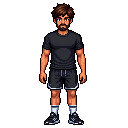
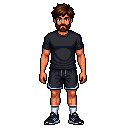
Daily 2.7: fecha de las intenciones, fondos de Scaeli+, barba corta rehecha
Claude-Session: https://claude.ai/code/session_018K2oLYSpPtdcPdEUVYj7Hk

Changed region(s): [[0.4062, 0.125, 0.5625, 0.2812]]

diff --git a/js/app.js b/js/app.js
@@ -23,7 +23,7 @@ import * as PJ from "./personaje.js";
 import { RETIROS } from "../data/retiros.js";   // 2.2: caminos largos de oración (Scaeli+)
 import { MUSICAS, musicaPlay, musicaStop, musicaEstado, musicaAlCambiar, campana, vozDisponible, decir, callar } from "./audio.js";
 
-export const VERSION="2.6";
+export const VERSION="2.7";
 const LOGO_GOOGLE='<svg class="logo-g" viewBox="0 0 48 48" aria-hidden="true"><path fill="#EA4335" d="M24 9.5c3.54 0 6.71 1.22 9.21 3.6l6.85-6.85C35.9 2.38 30.47 0 24 0 14.62 0 6.51 5.38 2.56 13.22l7.98 6.19C12.43 13.72 17.74 9.5 24 9.5z"/><path fill="#4285F4" d="M46.98 24.55c0-1.57-.15-3.09-.38-4.55H24v9.02h12.94c-.58 2.96-2.26 5.48-4.78 7.18l7.73 6c4.51-4.18 7.09-10.36 7.09-17.65z"/><path fill="#FBBC05" d="M10.53 28.59c-.48-1.45-.76-2.99-.76-4.59s.27-3.14.76-4.59l-7.98-6.19C.92 16.46 0 20.12 0 24c0 3.88.92 7.54 2.56 10.78l7.97-6.19z"/><path fill="#34A853" d="M24 48c6.48 0 11.93-2.13 15.89-5.81l-7.73-6c-2.15 1.45-4.92 2.3-8.16 2.3-6.26 0-11.57-4.22-13.47-9.91l-7.98 6.19C6.51 42.62 14.62 48 24 48z"/></svg>';
 const LOGO_APPLE='<svg class="logo-a" viewBox="0 0 814 1000" aria-hidden="true"><path fill="currentColor" d="M788.1 340.9c-5.8 4.5-108.2 62.2-108.2 190.5 0 148.4 130.3 200.9 134.2 202.2-.6 3.2-20.7 71.9-68.7 141.9-42.8 61.6-87.5 123.1-155.5 123.1s-85.5-39.5-164-39.5c-76.5 0-103.7 40.8-165.9 40.8s-105.6-57-155.5-127C46.7 790.7 0 663 0 541.8c0-194.4 126.4-297.5 250.8-297.5 66.1 0 121.2 43.4 162.7 43.4 39.5 0 101.1-46 176.3-46 28.5 0 130.9 2.6 198.3 99.2zm-234-181.5c31.1-36.9 53.1-88.1 53.1-139.3 0-7.1-.6-14.3-1.9-20.1-50.6 1.9-110.8 33.7-147.1 75.8-28.5 32.4-55.1 83.6-55.1 135.5 0 7.8 1.3 15.6 1.9 18.1 3.2.6 8.4 1.3 13.6 1.3 45.4 0 102.5-30.4 135.5-71.3z"/></svg>';
 /* la dirección publicada: la app de las tiendas lee de acá los Evangelios del día (los genera la GitHub Action cada noche) */
@@ -264,11 +264,15 @@ function nivelHTML(cls){ const N=nivelDe(), f=N.resto/N.falta, C=2*Math.PI*26;
 /* los fondos del personaje: ilustraciones de la app que se desbloquean con el nivel y los logros */
 const FONDOS=[["manana","Mañana",null],["mediodia","La parroquia",null],["tarde","Atardecer",null],["noche","Capilla de noche",null],
   ["horas","El claustro",["nivel",3,"Nivel 3"]],["luminosos","El Jordán",["logro","r7","7 días seguidos"]],["gloriosos","La Resurrección",["nivel",5,"Nivel 5"]],["gozosos","Belén",["logro","ros30","30 Rosarios"]],
-  ["evangelio","La Palabra",["logro","ev10","10 Evangelios"]],["dolorosos","El Huerto",["logro","nov1","Una novena completa"]],["santo","Los santos",["nivel",10,"Nivel 10"]],["misa","El altar",["logro","conf1","Una confesión"]],["oraciones","Manos en oración",["nivel",20,"Nivel 20"]]];
-function fondoLibre(F,N,L){ if(!F[2]) return true; const [t,v]=F[2]; return t==="nivel"?N.nivel>=v:!!(L.find(x=>x.k===v)||{}).ok; }
+  ["evangelio","La Palabra",["logro","ev10","10 Evangelios"]],["dolorosos","El Huerto",["logro","nov1","Una novena completa"]],["santo","Los santos",["nivel",10,"Nivel 10"]],["misa","El altar",["logro","conf1","Una confesión"]],["oraciones","Manos en oración",["nivel",20,"Nivel 20"]],
+  /* 2.7: fondos especiales de Scaeli+ (Gemini Pro; originales en herramientas/gemini/fondos_plus/) */
+  ["plus_catedral","La catedral",["plus",0,"Scaeli+"]],["plus_escalera","La escalera al cielo",["plus",0,"Scaeli+"]],["plus_galilea","Noche en Galilea",["plus",0,"Scaeli+"]],["plus_monte","La cruz del monte",["plus",0,"Scaeli+"]]];
+function fondoLibre(F,N,L){ if(!F[2]) return true; const [t,v]=F[2]; return t==="plus"?esPlus():t==="nivel"?N.nivel>=v:!!(L.find(x=>x.k===v)||{}).ok; }
 function fondoActual(){ const k=(profile||{}).fondo; const N=nivelDe(), L=logros(); const F=FONDOS.find(x=>x[0]===k); return F&&fondoLibre(F,N,L)?F[0]:null; }
 function fondosHTML(){ const N=nivelDe(), L=logros(), act=fondoActual()||"";
-  return '<div class="fondos">'+FONDOS.map(F=>{ const ok=fondoLibre(F,N,L); return '<button class="fondo'+(F[0]===act?" on":"")+(ok?"":" lock")+'" data-a="fondoSet" data-p="'+F[0]+'"'+(ok?'':' aria-disabled="true"')+'><img src="'+ilu(F[0])+'" alt="" loading="lazy">'+(ok?'':'<span class="lk">'+ic("lock")+'</span>')+'<b>'+esc(F[1])+'</b><small>'+(ok?(F[2]?"Desbloqueado":"De siempre"):esc(F[2][2]))+'</small></button>'; }).join("")+'</div>'; }
+  const uno=F=>{ const ok=fondoLibre(F,N,L), pl=F[2]&&F[2][0]==="plus"; return '<button class="fondo'+(F[0]===act?" on":"")+(ok?"":" lock")+(pl?" plus":"")+'" data-a="fondoSet" data-p="'+F[0]+'"'+(ok||pl?'':' aria-disabled="true"')+'><img src="'+ilu(F[0])+'" alt="" loading="lazy">'+(ok?'':'<span class="lk">'+ic("lock")+'</span>')+'<b>'+esc(F[1])+'</b><small>'+(pl?"Scaeli+":ok?(F[2]?"Desbloqueado":"De siempre"):esc(F[2][2]))+'</small></button>'; };
+  const esP=F=>F[2]&&F[2][0]==="plus";
+  return '<div class="fondos">'+FONDOS.filter(F=>!esP(F)).map(uno).join("")+'</div><div class="eyebrow fondos-sub">Especiales de Scaeli+</div><div class="fondos">'+FONDOS.filter(esP).map(uno).join("")+'</div>'; }
 /* los logros: se ganan una sola vez, se calculan de lo guardado */
 const LOGROS=[["ros1","Primer Rosario","Rezaste tu primer Rosario","rosary",D=>D.ros>=1],["ros30","30 Rosarios","Treinta coronas para María","rosary",D=>D.ros>=30],["ev10","10 Evangelios","Diez días con la Palabra","book",D=>D.ev>=10],["ev100","100 Evangelios","Cien días con la Palabra","book",D=>D.ev>=100],
   ["r7","7 días seguidos","Una semana con Dios sin cortar","candle",D=>D.rmax>=7],["r30","30 días seguidos","Un mes entero con Dios","candle",D=>D.rmax>=30],["r100","100 días seguidos","Cien velas encendidas","candle",D=>D.rmax>=100],
@@ -439,6 +443,10 @@ function calendarioHTML(){ const hoyS=hoy(); if(!calMes){ const d=new Date(); ca
   if(gcalErr) o+='<p class="hint" style="color:var(--over);margin-top:8px">'+esc(gcalErr)+'</p>';
   return o+'</div>'; }
 
+/* 2.7: de cuándo es una intención del grupo (campo «it» del miembro; las anteriores a 2.7 no lo tienen y no muestran nada) */
+function intCuando(t){ if(!t) return ""; const d=Math.max(0,Math.round((new Date(hoy()+"T12:00")-new Date(new Date(t).toDateString()))/864e5-.5));
+  const tx=d<=0?"de hoy":d===1?"de ayer":d<7?"hace "+d+" días":d<14?"hace una semana":d<60?"hace "+Math.floor(d/7)+" semanas":"hace "+Math.floor(d/30)+" meses";
+  return '<small class="gcu'+(d<=1?" nv":d>=14?" vj":"")+'">'+tx+'</small>'; }
 /* 2.2.4: el juego todavía no se publica; en lugar del enlace, una tarjeta «Muy pronto» con el logo del juego (sin enlace) */
 function juegoPronto(){ return '<div class="card juegop"><img src="assets/juego-scaeli.png" alt="Scaeli, el juego"><div class="n"><span class="eyebrow">El juego</span><b>Muy pronto en las plataformas</b><small>Scaeli, la aventura de la fe en pixel art. Lo que ganes acá va a aparecer en el juego.</small></div></div>'; }
 /* ── Yo: el personaje y su personalización básica (lo demás se gana jugando Scaeli) ── */
@@ -748,7 +756,7 @@ function shGrupo(){ const local=backend&&backend.mode==="local";
     /* 2.4: la fila de cada miembro, con aire: arriba quién es, abajo su intención y dos botones grandes; lo demás (reportar, bloquear, sacar) en «más» */
     const rg=rangoDe(esYo?rangoPts().pts:x.rg); return '<div class="grow'+(esYo?" yo":"")+'"><div class="gr1"><span class="rk rgk" title="'+rg.n+'">'+insignia(rg,32)+'</span>'+avatarHTML(x.av,40)+'<span class="n"><b>'+esc(x.n)+(esYo?' (vos)':'')+'</b><small class="rgn">'+rg.n+'</small></span>'+(x.mh&&x.mh.f===hoy()?'<em class="mhc'+(x.mh.n>=3?' ok':'')+'">'+x.mh.n+'/3 hoy</em>':'')+
       (esYo?'':'<button class="sm gmb" data-a="gMas" data-p="'+x.uid+'" aria-label="Más opciones" aria-expanded="'+(sheet.gmas===x.uid)+'">'+ic("more")+'</button>')+'</div>'+
-     (x.int&&!oculta?'<p class="gint">«'+esc(x.int)+'»</p>':x.int&&oculta?'<p class="gint muted">Intención ocultada</p>':'<p class="gint muted">'+(esYo?'Todavía no dejaste tu intención':'Sin intención todavía')+'</p>')+
+     (x.int&&!oculta?'<p class="gint">«'+esc(x.int)+'»'+intCuando(x.it)+'</p>':x.int&&oculta?'<p class="gint muted">Intención ocultada</p>':'<p class="gint muted">'+(esYo?'Todavía no dejaste tu intención':'Sin intención todavía')+'</p>')+
      (esYo?'':'<div class="acts">'+(x.int&&!oculta?'<button class="gb" data-a="gRece" data-p="'+x.uid+'" aria-pressed="'+!!rece+'">'+ic("rosary")+' '+(rece?"Rezaste ✓":"Recé por vos")+'</button>':'')+'<button class="gb" data-a="gAliento" data-p="'+x.uid+'" aria-pressed="'+(sheet.al===x.uid)+'">'+ic("heart")+' Mandar aliento</button></div>'+
       '<div class="gmas"'+(sheet.gmas===x.uid?'':' hidden')+'>'+(x.int&&!oculta?'<button data-a="gReportar" data-p="'+x.uid+'">'+ic("x")+' Reportar la intención</button>':'')+'<button data-a="gBloquear" data-p="'+x.uid+'">'+ic("lock")+' Bloquear</button>'+(creador?'<button data-a="gEchar" data-p="'+x.uid+'">'+ic("trash")+' Sacar del grupo</button>':'')+'</div>')+
      (sheet.al===x.uid?'<div class="chips gal">'+ALIENTOS.map((a,i)=>'<button data-a="gAlientoOk" data-p="'+x.uid+'|'+i+'">'+esc(a)+'</button>').join("")+'</div>':'')+'</div>'; };
@@ -765,7 +773,7 @@ function shGrupo(){ const local=backend&&backend.mode==="local";
    '<div class="card gdes"><div class="hd"><div class="eyebrow">Desafío de la semana</div><span class="chip">'+ic(E.D[3])+' '+E.D[2]+' c/u</span></div><b class="gt">'+esc(E.D[1])+' entre todos: '+E.tot+' de '+E.meta+'</b><div class="bar3"><i style="width:'+Math.min(100,Math.round(E.tot/E.meta*100))+'%"></i></div><p class="hint">'+(E.ok?'¡Meta cumplida! Todos se llevan la insignia del equipo.':'Si llegan antes del domingo, todos ganan la insignia del equipo. Lo tuyo: '+(((me.s||{})[lun]||{})[E.D[0]]||0)+'.')+'</p></div>'+
    misionesHTML(R,u)+actividadHTML())+pan("muro",muroHTML(u,creador))+
    pan("miembros",'<div class="card gtuya"><div class="hd"><div class="eyebrow">Tu intención de la semana</div>'+(recibidos?'<span class="hint" style="margin:0;color:var(--accent);display:inline-flex;align-items:center;gap:5px;white-space:nowrap">'+ic("heart")+' '+recibidos+' rezaron por vos</span>':'')+'</div>'+
-     '<form data-f="grupoInt" class="add"><input type="text" name="i" placeholder="Por qué pedís esta semana…" maxlength="80" value="'+esc(me.int||"")+'" autocomplete="off"><button class="iconbtn acc" type="submit" aria-label="Guardar">'+ic("check")+'</button></form><p class="hint" style="margin:8px 0 0">La ven los de tu grupo, para rezar por vos.</p></div>'+
+     '<form data-f="grupoInt" class="add"><input type="text" name="i" placeholder="Por qué pedís esta semana…" maxlength="80" value="'+esc(me.int||"")+'" autocomplete="off"><button class="iconbtn acc" type="submit" aria-label="Guardar">'+ic("check")+'</button></form><p class="hint" style="margin:8px 0 0">La ven los de tu grupo, para rezar por vos'+(me.int&&me.it?', con su fecha (la tuya es '+intCuando(me.it).replace(/<[^>]+>/g,"")+'). Guardala de nuevo para renovarla':'')+'.</p></div>'+
      '<div class="eyebrow gsub">Intenciones del grupo</div><div class="gmiem">'+R.slice().sort((a,b)=>(b.uid===u)-(a.uid===u)||String(a.n).localeCompare(String(b.n))).map(fila).join("")+'</div>')+
    pan("ranking",'<div class="card gencs"><div class="hd"><div class="eyebrow">Encuentros</div><button class="lnk" data-a="encNuevo">'+ic("plus")+' Proponer uno</button></div>'+
      (ENC.length?ENC.map(m=>encHTML(m,u,creador)).join(""):'<p class="hint" style="margin:4px 0 0">La Misa del domingo, la reunión del grupo, una salida: proponé la fecha y cada uno avisa si va.</p>')+'</div>'+
@@ -1339,7 +1347,7 @@ function confirmar(tit,txt,ok,no){ return new Promise(res=>{ const el=document.c
 function shPlusPaywall(desde){ const nat=esNativo(), P=sheet.planes, eq=delEquipo()||plusPrueba(), activo=esPlus();
   if(nat&&comprasDisponibles()&&!P&&!sheet.cargandoP){ sheet.cargandoP=1; comprasPlanes().then(x=>{ if(sheet){ sheet.planes=x||{}; renderSheet(); } }); }
   const precio=(p,def)=>p&&p.product&&p.product.priceString?p.product.priceString:def;
-  const ben=[["Caminos largos de oración","La Consagración a María en 33 días, los Ejercicios de San Ignacio en 30, un retiro de 7 días y San Marcos entero en 16. Y los del tiempo litúrgico: Adviento, Navidad, Cuaresma y Pascua."],["Rezar con audio","El Rosario guiado con voz, que pasa solo las cuentas, y música para rezar: órgano suave, noche o silencio con campana."],["Grupos y diario sin límites","Hasta 10 grupos de perseverancia a la vez (gratis, 2) y todo tu diario, con buscador y para guardar en PDF."],["Cancionero con acordes","Los acordes sobre la letra, en Do Re Mi o cifrado americano, el cambio de tono y tus propios cantos."],["Formación de cada día","Una pregunta del Catecismo por día, con su respuesta, para ir formándote de a poco."],["Tu progreso y tus virtudes","Tus hábitos y tu oración semana a semana, y el esquema de las virtudes que más trabajás y las que te faltan."],["Incluye Scaeli Fit","Una sola suscripción para las dos apps: ayuno con planes, rutinas por objetivo, escaneo de comidas por foto e informes."],["Tu año con Dios","Tu año en historias: días con Dios, rachas, Rosarios, Evangelios, novenas y tu nivel, con una imagen para compartir."],["Sostenés Scaeli","Un proyecto para acercar a los jóvenes a Dios, sin publicidad."]];
+  const ben=[["Caminos largos de oración","La Consagración a María en 33 días, los Ejercicios de San Ignacio en 30, un retiro de 7 días y San Marcos entero en 16. Y los del tiempo litúrgico: Adviento, Navidad, Cuaresma y Pascua."],["Rezar con audio","El Rosario guiado con voz, que pasa solo las cuentas, y música para rezar: órgano suave, noche o silencio con campana."],["Grupos y diario sin límites","Hasta 10 grupos de perseverancia a la vez (gratis, 2) y todo tu diario, con buscador y para guardar en PDF."],["Cancionero con acordes","Los acordes sobre la letra, en Do Re Mi o cifrado americano, el cambio de tono y tus propios cantos."],["Fondos especiales para tu personaje","La catedral, la escalera al cielo, la noche en Galilea y la cruz del monte. Muy pronto, mascotas y vestimentas."],["Formación de cada día","Una pregunta del Catecismo por día, con su respuesta, para ir formándote de a poco."],["Tu progreso y tus virtudes","Tus hábitos y tu oración semana a semana, y el esquema de las virtudes que más trabajás y las que te faltan."],["Incluye Scaeli Fit","Una sola suscripción para las dos apps: ayuno con planes, rutinas por objetivo, escaneo de comidas por foto e informes."],["Tu año con Dios","Tu año en historias: días con Dios, rachas, Rosarios, Evangelios, novenas y tu nivel, con una imagen para compartir."],["Sostenés Scaeli","Un proyecto para acercar a los jóvenes a Dios, sin publicidad."]];
   const anual=P&&P.anual, mensual=P&&P.mensual, pa=anual&&anual.product&&anual.product.price, pm=mensual&&mensual.product&&mensual.product.price;
   const ahorro=pa&&pm?Math.round((1-pa/(pm*12))*100):44;
   return shTop("Scaeli+",activo?"Lo tenés activo":"Para crecer en lo que ya rezás")+'<div class="scroll"><div class="plus-hero"><span class="plus-tag">Scaeli<b>+</b></span><p>La oración es gratis siempre. Scaeli+ te ayuda a ver tu camino y a sostenerlo.</p></div>'+
@@ -1900,7 +1908,7 @@ const ACC={ ...CANC.ACC,
   async pushOn(){ if(pushOn()){ lsSet("daily_push",null); try{ await pushDesactivar(); await backend.setDoc("daily_settings/push",{on:false,t:null,f:hoy()}); }catch(e){} toast("Avisos de Scaeli desactivados"); render(); return; }
     if(pushFaltaInstalar()){ toast("En iPhone: tocá Compartir y «Agregar a inicio»; después activalos desde la app instalada"); return; } await pushEncender(false); },
   async gEjemplo(){ if(!grupoBE||grupoBE.mode!=="local") return; const gid=await grupoBE.crear("Los de la parroquia",miFicha()); const lun=semanaDe(), ant=addDays(lun,-7), ej={};
-    [["Juan",{sx:"m",prenda:"remera:azul",peinado:"corto"},[64,120]],["Clari",{sx:"f",prenda:"buzo:bordo",peinado:"suelto"},[92,70]],["Mateo",{sx:"m",prenda:"camisa:blanco",peinado:"base"},[31,150]],["Sofi",{sx:"f",prenda:"pollera:negro",peinado:"corto"},[77,40]]].forEach((x,i)=>{ const u="ej"+i; ej[u]={n:x[0],av:x[1],int:["Por mi abuela, que está enferma","Por los exámenes","Por mi hermano","Por la misión de verano"][i],s:{[lun]:{r:i+1,e:3-(i%2),d:4,x:2,o:1,p:x[2][0]},[ant]:{r:4,e:5,d:6,x:3,o:2,p:x[2][1]}},rece:{local:{n:1,t:Date.now()}},al:i===1?{local:[1,Date.now()]}:{},act:[["r"+i,"r","",Date.now()-(i*55+20)*60000],["e"+i,i%2?"e":"pal","",Date.now()-(i*80+90)*60000]].slice(0,i===3?1:2),am:{},cs:Object.fromEntries(CARTAS.filter((c,j)=>(j*7+i*3)%11===0).map((c,j)=>[c.id,Math.round(Date.now()/1000)-86400*(10-j%9)-i*3600])),t:Date.now()}; });
+    [["Juan",{sx:"m",prenda:"remera:azul",peinado:"corto"},[64,120]],["Clari",{sx:"f",prenda:"buzo:bordo",peinado:"suelto"},[92,70]],["Mateo",{sx:"m",prenda:"camisa:blanco",peinado:"base"},[31,150]],["Sofi",{sx:"f",prenda:"pollera:negro",peinado:"corto"},[77,40]]].forEach((x,i)=>{ const u="ej"+i; ej[u]={n:x[0],av:x[1],int:["Por mi abuela, que está enferma","Por los exámenes","Por mi hermano","Por la misión de verano"][i],it:Date.now()-[0,2,9,40][i]*864e5,s:{[lun]:{r:i+1,e:3-(i%2),d:4,x:2,o:1,p:x[2][0]},[ant]:{r:4,e:5,d:6,x:3,o:2,p:x[2][1]}},rece:{local:{n:1,t:Date.now()}},al:i===1?{local:[1,Date.now()]}:{},act:[["r"+i,"r","",Date.now()-(i*55+20)*60000],["e"+i,i%2?"e":"pal","",Date.now()-(i*80+90)*60000]].slice(0,i===3?1:2),am:{},cs:Object.fromEntries(CARTAS.filter((c,j)=>(j*7+i*3)%11===0).map((c,j)=>[c.id,Math.round(Date.now()/1000)-86400*(10-j%9)-i*3600])),t:Date.now()}; });
     Object.values(ej).forEach((x,i)=>{ x.rg=[310,170,90,240][i]; }); grupoBE._sembrar(gid,ej);
     [["Jóvenes de San José",88,12],["Confirmación 2026",71,18],["Pascua Joven",64,9],["Misión Concordia",52,7],["Grupo Santa Teresita",45,11],["Los del Carmen",33,6]].forEach((g,i)=>grupoBE.setRanking("EJR"+i,{n:g[0],sem:lun,pts:g[1],m:g[2],t:Date.now()})); if(grupoBE._sembrarMuro){ const U=Object.keys(ej); grupoBE._sembrarMuro(gid,[{id:"e1",u:U[0],n:ej[U[0]].n,tx:"No se olviden de rezar el Evangelio hoy",tipo:"rec",t:Date.now()-3600e3,a:{[U[1]]:1}},{id:"e2",u:U[1],n:ej[U[1]].n,tx:"Recé la decena por todos, ¡vamos que llegamos al desafío!",t:Date.now()-7200e3,a:{[U[0]]:1,[U[2]||U[0]]:1}},{id:"e3",u:U[2]||U[0],n:ej[U[2]||U[0]].n,tx:"Buen día grupo, hoy ofrezco el día por los que están lejos.",t:Date.now()-86400e3},
       {id:"e4",k:"enc",u:U[0],n:ej[U[0]].n,tx:"Encuentro: Misa y merienda",ti:"Misa y merienda",f:addDays(hoy(),3),h:"19:00",lu:"La parroquia",t:Date.now()-5400e3,a:{[U[0]]:1,[U[1]]:1}},
@@ -1968,7 +1976,7 @@ const ACC={ ...CANC.ACC,
   async rosSalir(){ const P=PJ.normal(profile||{}), r=rosario, M=r&&MISTERIOS[r.set], q=P.sx==="f"?"¿Estás segura?":"¿Estás seguro?";
     const donde=r&&r.fase==="decena"&&M?"en el "+["primer","segundo","tercer","cuarto","quinto"][r.mis]+" misterio":"donde lo dejaste";
     if(await confirmar(q,"Tu Rosario queda guardado "+donde+" y podés seguir hoy desde ahí.","Salir","Seguir rezando")) closeSheet(); },
-  async fondoSet(p){ const F=FONDOS.find(x=>x[0]===p); if(!F) return; if(!fondoLibre(F,nivelDe(),logros())){ toast("Todavía no: "+F[2][2]); return; } await backend.setDoc("daily_settings/profile",{...(profile||{}),fondo:p}); toast("Fondo: "+F[1]); },
+  async fondoSet(p){ const F=FONDOS.find(x=>x[0]===p); if(!F) return; if(!fondoLibre(F,nivelDe(),logros())){ if(F[2][0]==="plus") ACC.plus(); else toast("Todavía no: "+F[2][2]); return; } await backend.setDoc("daily_settings/profile",{...(profile||{}),fondo:p}); toast("Fondo: "+F[1]); },
   async pjSet(p){ const [c,v]=String(p).split("|"); const pr={...(profile||{})};
     if(c==="sx"){ if((pr.sx||"m")===v) return; pr.sx=v; pr.prenda="base"; pr.peinado="base"; }
     else if(c==="acc") pr[v]=pr[v]?0:1;
@@ -2045,7 +2053,7 @@ document.addEventListener("submit",e=>{ const f=e.target; if(!f.dataset.f) retur
     if(grupo.gid&&grupo.meta&&!esPlus()&&misGrupos()>=GRUPOS_GRATIS){ openSheet({view:"plus",desde:"grupos"}); return; } if(misGrupos()>=GRUPOS_PLUS&&grupo.gid){ toast("Ya estás en "+GRUPOS_PLUS+" grupos: salí de uno primero"); return; }
     (async()=>{ try{ const gid=await grupoBE.crear(n,miFicha()); await grupoEntrar(gid,n); toast("Grupo creado · código "+gid); openSheet({view:"grupo"}); }catch(e){ toast("No se pudo crear el grupo."); } })(); return; }
   if(f.dataset.f==="grupoUnirse"){ const c=String((f.querySelector("input")||{}).value||"").toUpperCase().replace(/[^A-Z0-9]/g,""); if(document.activeElement&&document.activeElement.blur) document.activeElement.blur(); ACC.gUnirme(c); return; }
-  if(f.dataset.f==="grupoInt"){ const t=String((f.querySelector("input")||{}).value||"").trim().slice(0,80); if(t&&!limpio(t)){ toast("Elegí otras palabras"); return; } if(document.activeElement&&document.activeElement.blur) document.activeElement.blur(); grupoBE.setMiembro(grupo.gid,{int:t}).then(()=>toast(t?"Intención guardada":"Intención borrada")).catch(()=>toast("No se pudo guardar")); return; }
+  if(f.dataset.f==="grupoInt"){ const t=String((f.querySelector("input")||{}).value||"").trim().slice(0,80); if(t&&!limpio(t)){ toast("Elegí otras palabras"); return; } if(document.activeElement&&document.activeElement.blur) document.activeElement.blur(); grupoBE.setMiembro(grupo.gid,{int:t,it:t?Date.now():0}).then(()=>toast(t?"Intención guardada":"Intención borrada")).catch(()=>toast("No se pudo guardar")); return; }
   if(f.dataset.f==="bibBuscar"){ const q=($("#bibQ")||{}).value||""; if(!q.trim()) return; const r=bibReferencia(q); if(document.activeElement&&document.activeElement.blur) document.activeElement.blur();
     if(r){ sheet.q=""; bibAbrir(r.b,r.c,r.v); } else bibBuscarPalabra(q.trim()); return; } const F=new FormData(f); if(document.activeElement&&document.activeElement.blur) document.activeElement.blur(); dirty=true;
   if(f.dataset.f==="prop"){ const t=String(F.get("t")||"").trim(); if(t){ propositos.push({id:newId("p"),t,f:String(F.get("f")||"").trim(),hr:String(F.get("hr")||"").trim(),d:hoy()}); backend.setDoc("daily_settings/propositos",{list:propositos}); programarAvisos(); } f.reset(); }
@@ -2077,6 +2085,7 @@ try{ if(localStorage.getItem("daily_theme")==="light") document.documentElement.
    2) Al abrir la versión nueva: una vez, la hoja «Novedades» con lo que cambió desde la última que viste (NOVEDADES, la más nueva primero).
    En cada versión nueva hay que sumar su entrada acá (t38 lo comprueba). */
 const NOVEDADES=[   /* 2.4 (Lorenzo: «presentemos lo más importante, no cosas mínimas»): pocas líneas por versión, solo lo que alguien notaría; una versión de arreglos lleva [] y no abre el aviso */
+  ["2.7",["Scaeli+: cuatro fondos especiales para tu personaje.","Cada intención del grupo dice de cuándo es.","La barba corta es nueva: ya no se parece al candado."]],
   ["2.6",["El grupo tiene su pantalla: está abajo, entre Rezar y Día.","Avisos de Scaeli: activalos en Yo → Ajustes y más.","Personaje: barbas, caras nuevas y consagrados adultos y mayores.","Ahora podés estar en 2 grupos; con Scaeli+, hasta 10.","La piel oscura del personaje quedó más pareja."]],
   ["2.5",["El muro del grupo ahora es un chat, con recordatorios.","Encuentros del grupo: proponé el día y cada uno avisa si va.","Las intenciones del grupo tienen su propio lugar.","Cantos del grupo: los carga uno y los ven todos.","Cancionero: 20 cantos más."]],
   ["2.4",["Las lecturas de los próximos días, para preparar con tiempo.","El salmo de la Misa ahora es el que corresponde, y dice «el Señor».","Hábitos: anotá los de ayer o de la semana, y deshacé un toque equivocado.","Cancionero con acordes, y en la Biblioteca: Santa Teresa y los documentos de la Iglesia.","Tu grupo, más claro: Hoy, Muro, Miembros y Ranking."]],

diff --git a/pruebas/t43.js b/pruebas/t43.js
@@ -1,0 +1,40 @@
+// t43 · Daily 2.7: fecha de las intenciones del grupo, fondos especiales de Scaeli+ y la barba corta rehecha.
+const { chromium } = require('playwright'); const fs = require('fs');
+(async () => { const b = await chromium.launch(); const errs = [], fails = []; const ok = (c, m) => { if (process.env.V) console.log((c ? '  ok ' : '  XX ') + m); if (!c) fails.push(m); };
+  const p = await (await b.newContext({ viewport: { width: 390, height: 844 } })).newPage();
+  p.on('pageerror', e => errs.push('PAGEERROR ' + e.message));
+  await p.goto('http://localhost:8765/index.html'); await p.evaluate(() => localStorage.clear()); await p.reload(); await p.waitForTimeout(900);
+  await p.click('#invitado'); await p.waitForTimeout(2200);
+  const A = async (a, q, ms = 450) => { await p.evaluate(([a, q]) => window.DAILY.ACC[a](q), [a, q]); await p.waitForTimeout(ms); };
+  const SH = () => p.evaluate(() => (document.querySelector('#sheetIn') || {}).innerText || '');
+  // 1 · intenciones con fecha
+  await A('gEjemplo', undefined, 900); await A('gTab', 'miembros'); let t = await SH();
+  const cu = await p.evaluate(() => [...document.querySelectorAll('.gpan[data-gp="miembros"] .gint .gcu')].map(x => x.textContent + (x.classList.contains('nv') ? '*' : x.classList.contains('vj') ? '~' : '')));
+  ok(cu.includes('de hoy*') && cu.includes('hace 2 días') && cu.includes('hace una semana') && cu.includes('hace 5 semanas~'), 'cada intención dice de cuándo es: ' + cu.join(' | '));
+  await p.fill('form[data-f=grupoInt] input', 'Por la misión de Salto'); await p.press('form[data-f=grupoInt] input', 'Enter'); await p.waitForTimeout(800);
+  const yo = await p.evaluate(() => { const g = window.DAILY.get(); const me = (g.grupoR || g.miembros || []).find && null; return [...document.querySelectorAll('.gpan[data-gp="miembros"] .grow.yo .gint')].map(x => x.textContent).join(''); });
+  ok(/Por la misión de Salto/.test(yo) && /de hoy/.test(yo), 'la mía queda con la fecha de hoy: ' + yo); t = await SH();
+  ok(/Guardala de nuevo para renovarla/.test(t), 'se explica cómo renovarla');
+  await A('cerrar');
+  // 2 · fondos de Scaeli+
+  await p.evaluate(() => window.DAILY.ir('yo')); await p.waitForTimeout(500); await p.evaluate(() => { const d = document.querySelector('details.fondos-d'); d.open = true; }); await p.waitForTimeout(300);
+  ok((await p.$$('.fondo.plus')).length === 4 && (await p.$$('.fondo.plus.lock')).length === 4 && /Especiales de Scaeli\+/i.test(await p.evaluate(() => document.querySelector('#app').innerText)), 'cuatro fondos de Scaeli+, con candado si no sos Scaeli+');
+  for (const k of ['catedral', 'escalera', 'galilea', 'monte']) { const f = __dirname + '/../assets/ilus/daily_plus_' + k + '.png'; ok(fs.existsSync(f) && fs.statSync(f).size > 5000, 'está la portada ' + k); }
+  ok(await p.evaluate(() => [...document.querySelectorAll('.fondo.plus img')].every(i => i.complete && i.naturalWidth === 320 && i.naturalHeight === 184)), 'se ven y miden 320 × 184');
+  await p.click('.fondo.plus[data-p="plus_catedral"]'); await p.waitForTimeout(600);
+  ok(await p.evaluate(() => { const s = window.DAILY.get().sheet; return s && s.view === 'plus'; }) && !(await p.evaluate(() => (JSON.parse(localStorage.getItem('scaeli-daily-local'))['daily_settings/profile'] || {}).fondo === 'plus_catedral')), 'sin Scaeli+ abre la invitación y no lo pone');
+  ok(/Fondos especiales para tu personaje/.test(await SH()), 'la invitación los nombra'); await A('cerrar');
+  await p.evaluate(() => localStorage.setItem('daily_plus_prueba', '1')); await p.reload(); await p.waitForTimeout(900); if (await p.$('#invitado')) await p.click('#invitado'); await p.waitForTimeout(2200);
+  await p.evaluate(() => window.DAILY.ir('yo')); await p.waitForTimeout(500); await p.evaluate(() => { document.querySelector('details.fondos-d').open = true; }); await p.waitForTimeout(300);
+  ok((await p.$$('.fondo.plus.lock')).length === 0, 'con Scaeli+ están libres');
+  await p.click('.fondo.plus[data-p="plus_escalera"]'); await p.waitForTimeout(700);
+  ok(await p.evaluate(() => (JSON.parse(localStorage.getItem('scaeli-daily-local'))['daily_settings/profile'] || {}).fondo === 'plus_escalera') && await p.evaluate(() => /daily_plus_escalera/.test((document.querySelector('#pjsec img.bg') || {}).src || '')), 'se elige y queda detrás del personaje');
+  await p.evaluate(() => localStorage.removeItem('daily_plus_prueba')); await p.reload(); await p.waitForTimeout(900); if (await p.$('#invitado')) await p.click('#invitado'); await p.waitForTimeout(2200); await p.evaluate(() => window.DAILY.ir('yo')); await p.waitForTimeout(500);
+  ok(!(await p.$('#pjsec img.bg')) || !(await p.evaluate(() => /daily_plus_/.test(document.querySelector('#pjsec img.bg').src))), 'si se termina Scaeli+, vuelve el fondo de siempre');
+  // 3 · la barba corta nueva: cubre las mejillas (más puntos y más arriba que el candado)
+  const r = await p.evaluate(async () => { const PJ = await import('./js/personaje.js'); await PJ.cargar(); const px = P => { const cv = document.createElement('canvas'); PJ.pintar(cv, P); return cv.getContext('2d').getImageData(0, 0, 128, 128).data; };
+    const s0 = px({ sx: 'm', prenda: 'deportiva' }); const dif = k => { const c = px({ sx: 'm', prenda: 'deportiva', barba: k }); let n = 0, x0 = 128, x1 = 0; for (let i = 0; i < c.length; i += 4) if (c[i] !== s0[i] || c[i + 1] !== s0[i + 1] || c[i + 2] !== s0[i + 2]) { n++; const x = (i >> 2) & 127; if (x < x0) x0 = x; if (x > x1) x1 = x; } return [n, x1 - x0]; }; return { corta: dif('corta'), candado: dif('candado') }; });
+  ok(r.corta[0] > r.candado[0] * 2 && r.corta[1] > r.candado[1] + 4, 'la barba corta es distinta del candado: ' + JSON.stringify(r));
+  const app = fs.readFileSync(__dirname + '/../js/app.js', 'utf8'); ok(/VERSION="2\.7"/.test(app) && /\["2\.7",\[/.test(app), 'versión 2.7 con sus novedades');
+  await b.close(); if (errs.length) fails.push(...errs);
+  if (fails.length) { console.log('t43 FALLA\n - ' + fails.join('\n - ')); process.exit(1); } console.log('t43 OK'); })();

diff --git a/sw.js b/sw.js
@@ -1,6 +1,6 @@
 // Service worker: la app funciona sin señal. El índice se busca primero en la red (para recibir versiones nuevas) y cae al caché.
 // Los Evangelios (evangelio/*.json) y las novenas se guardan al pasar, así quedan los días ya vistos.
-const VERSION = "scaeli-daily-v51";
+const VERSION = "scaeli-daily-v52";
 const SHELL = ["./", "./index.html", "./css/app.css", "./css/v2.css", "./js/app.js", "./js/firebase.js", "./js/nativo.js", "./vendor/firebase/firebase-app.js", "./vendor/firebase/firebase-auth.js", "./vendor/firebase/firebase-firestore.js", "./vendor/firebase/firebase-analytics.js", "./vendor/firebase/firebase-messaging.js", "./privacidad.html", "./terminos.html", "./data/plus.js", "./data/retiros.js", "./js/audio.js", "./data/habitos.js", "./data/oraciones_mas.js", "./data/palabra.js", "./data/libros.js", "./data/cancionero.js", "./js/cancionero.js", "./data/catecismo.js", "./data/novenas.js", "./data/examen.js", "./data/misa.js", "./data/juego.js", "./data/propio.js", "./data/santos.js", "./data/santoral.js", "./data/santoral-mas.js", "./biblia/indice.json", "./js/personaje.js", "./manifest.webmanifest",
   "./icons/icon-192.png", "./icons/icon-512.png", "./data/citas.js", "./assets/fuentes/inter.woff2",
   "./data/cartas.js", "./assets/fuentes/cinzel.woff2", "./assets/fuentes/cormorant-i.woff2",

diff --git a/pruebas/t42.js b/pruebas/t42.js
@@ -62,6 +62,6 @@ const { chromium } = require('playwright'); const fs = require('fs');
   await A('pjSet', 'sx|f'); ok(!(await p.$('#app button[data-p^="barba|"]')) && await p.$('#app button[data-p="cara|rubor"]'), 'ella: sin barba, con sus caras');
   await A('pjSet', 'edad|mayor'); ok(!(await p.$('#app button[data-p^="cara|"]')), 'las otras edades tienen su propia cara');
   ok(/"\.\/assets\/personaje\/extras\.png"/.test(sw), 'la hoja de capas queda guardada para usar sin conexión');
-  ok(/VERSION="2\.6"/.test(app) && /\["2\.6",\[/.test(app), 'versión 2.6 con sus novedades');
+  ok(/\["2\.6",\[/.test(app), 'las novedades de la 2.6 siguen en la lista');
   await b.close(); if (errs.length) fails.push(...errs);
   if (fails.length) { console.log('t42 FALLA\n - ' + fails.join('\n - ')); process.exit(1); } console.log('t42 OK'); })();

diff --git a/css/v2.css b/css/v2.css
@@ -349,3 +349,9 @@ button.sbanner.gpage{display:block;width:100%;padding:0;border:0;text-align:left
 .gpage .gavs{position:absolute;right:12px;bottom:12px;display:flex}.gpage .gavs>*{margin-left:-8px}
 .gvacio h3{font-size:20px;margin:14px 0 6px}.gvacio .primary{margin-top:14px}
 .seg.gsw.muchos{overflow-x:auto;scrollbar-width:none;justify-content:flex-start}.seg.gsw.muchos::-webkit-scrollbar{display:none}.seg.gsw.muchos button{flex:none;min-width:31%;padding:0 12px}
+
+/* 2.7 · de cuándo es cada intención del grupo; fondos de Scaeli+ */
+.grow .gint .gcu{display:block;margin-top:5px;font-size:12px;font-weight:600;letter-spacing:.02em;color:var(--ink2)}
+.grow .gint .gcu.nv{color:var(--accent)}.grow .gint .gcu.vj{opacity:.75;font-weight:500}
+.fondo.plus small{color:var(--accent);font-weight:700}
+.fondos-sub{margin:16px 0 10px}

diff --git a/herramientas/caras_barbas.py b/herramientas/caras_barbas.py
@@ -5,6 +5,7 @@
 # que cambió en la cara (la diferencia con el dibujo base) y se arma assets/personaje/extras.png: una fila de celdas de 40×40
 # por capa — [color][máscara de piel] — más la celda de referencia (la cara base) de cada sexo. En pj.json queda «extras»
 # (qué celda es cada capa) y, en cada dibujo del joven, «cara»: cuánto está corrida su cara respecto de la base.
+# 2.7: la barba «corta» se rehízo (la primera era casi igual al candado: quedó como m_barba_fina_descartada.png).
 # Uso: python3 herramientas/caras_barbas.py     (después de pj_armar / caras.py / consagrados_edades.py)
 import json, os
 import numpy as np
@@ -14,7 +15,7 @@ X0,Y0,N=44,8,40          # la caja de la cara dentro del cuadro de 128
 T=45                      # cuánto tiene que cambiar un punto (suma de R, G y B) para contar
 BASE={'m':'atleta_south.png','f':'atleta_f_south.png'}
 # capa: (archivo, filas y columnas del cuadro donde se mira, mínimo de puntos pegados para no ser ruido)
-CAPAS={'m':{'barba':[('corta','m_barba_corta',(22,47,46,82),4),('candado','m_barba_candado',(23,47,46,82),4),('bigote','m_barba_bigote',(23,29,52,76),4),('completa','m_barba_completa',(21,47,46,82),4)],
+CAPAS={'m':{'barba':[('corta','m_barba_corta',(19,47,46,82),4),('candado','m_barba_candado',(23,47,46,82),4),('bigote','m_barba_bigote',(23,29,52,76),4),('completa','m_barba_completa',(21,47,46,82),4)],
             'cara':[('anteojos','m_cara_anteojos',(15,25,48,80),1),('pecas','m_cara_pecas',(17,28,52,76),1),('cejas','m_cara_cejas',(16,22,53,75),1)]},
        'f':{'cara':[('anteojos','f_cara_anteojos',(15,25,48,80),1),('pecas','f_cara_pecas',(17,28,52,76),1),('rubor','f_cara_rubor',(17,27,52,76),1)]}}
 def img(p): return np.array(Image.open(p).convert('RGBA')).astype(int)

diff --git a/LEEME-DAILY.md b/LEEME-DAILY.md
@@ -52,6 +52,11 @@ bash pruebas/todo.sh                                     # levanta el servidor e
 - **Más adelante**: poses de oración; insignias del grupo leídas por el juego; el logo del atleta en las 8 vistas de Fit.
 
 ## Últimas versiones (detalle en LEEME-PRIMERO.md)
+- **2.7** (18/11, «las intenciones podrían tener la fecha… la barba corta y candado son las mismas… fondos especiales para Scaeli+… mascota solo para premium y faltan las vestimentas especiales»). SW v52, versionCode 16, t43.
+  - **Fecha de las intenciones**: al guardar la intención se guarda `it` (momento) en el documento del miembro (las reglas no cambian: admiten campos nuevos). `intCuando()` muestra «de hoy», «de ayer», «hace N días / semanas / meses» debajo de cada intención (las anteriores a 2.7 no tienen fecha). Guardarla de nuevo la renueva.
+  - **Barba corta rehecha** con la última generación de PixelLab (tupida, cubre mejillas y mandíbula); la primera quedó en `herramientas/pixellab_caras/m_barba_fina_descartada.png`. **PixelLab quedó en 0 generaciones hasta el 24/11.**
+  - **Fondos de Scaeli+** (4): La catedral, La escalera al cielo, Noche en Galilea, La cruz del monte. Hechos con Gemini Pro (cuenta Scaeli App), `assets/ilus/daily_plus_*.png` (320 × 184, 48 colores), originales en `herramientas/gemini/fondos_plus/`. En `FONDOS` llevan `["plus",0,"Scaeli+"]`; sin Scaeli+ se ven con candado y abren la invitación; si se termina Scaeli+, vuelve el fondo de siempre. Cómo se bajaron de Gemini: las imágenes recién generadas no se pueden leer desde la página; se navega la pestaña a la dirección de cada imagen (ahí sí se puede dibujar en un canvas), se achica a 320 × 184 y se pasa como texto; entre una y otra los datos viajan en `window.name`.
+  - **Pendiente para el 24/11 (PixelLab renovado), pedido por Lorenzo para Scaeli+**: **mascotas/compañeros** (perro, gato, cordero, paloma, ángeles y advocaciones: «están muchas en mi PixelLab», mirar primero su galería para no gastar generaciones) y **vestimentas especiales** (ropa moderna «fachera», peregrino/misionero, monaguillo/coro). El paywall ya dice «Muy pronto, mascotas y vestimentas».
 - **2.6 · Grupo a la vista, avisos y personaje** (18/11, «el grupo está muy escondido… enviar recordatorios a los usuarios que lo quieran activar… dos grupos / premium más… adulto y mayor consagrado… piel oscura, el tríceps… barbas y caras»). SW v51, versionCode 15. Pruebas: t42 (y t11/t13/t18/t19/t35/t38 al día).
   - **Barra**: Hoy, Rezar, **Grupo**, Día, Yo. `renderGrupo()` es una pantalla (sin grupo invita; con grupo: selector si hay varios, próximo encuentro y filas a Chat, Intenciones, Desafío, Encuentros, Cantos y Ranking, que abren la hoja del grupo en esa pestaña con `grupoEn`). **«Más» vive dentro de Yo** (fila «Ajustes y más» y engranaje; `irMas`/`irYo`; la vista sigue llamándose `mas`). Ícono de enviar: flecha hacia arriba.
   - **Avisos de Scaeli (push)**: Firebase Cloud Messaging web. Clave pública en `js/firebase.js` (`PUSH_VAPID`, generada el 18/11 en Firebase → Configuración → Cloud Messaging → Certificados push web), `vendor/firebase/firebase-messaging.js`, y `sw.js` atiende `push` y `notificationclick` sin SDK. El interruptor está en Yo → Ajustes y más; guarda `daily_settings/push {on,t,f,ua}` y `localStorage daily_push`. **Cómo manda Lorenzo un aviso**: consola de Firebase → proyecto scaeli → Messaging → «Crear la primera campaña» → «Mensajes de Firebase Notifications» → título y texto → app web → Enviar (llega a quien lo activó). En iPhone solo con la app instalada en la pantalla de inicio. **Pendiente**: la entrega de punta a punta no se probó con un envío real, y la app nativa (Android/iOS) necesita el plugin de push de Capacitor.
